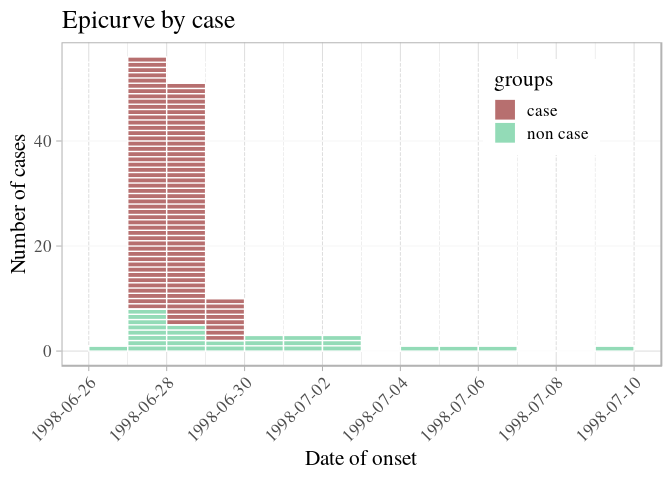
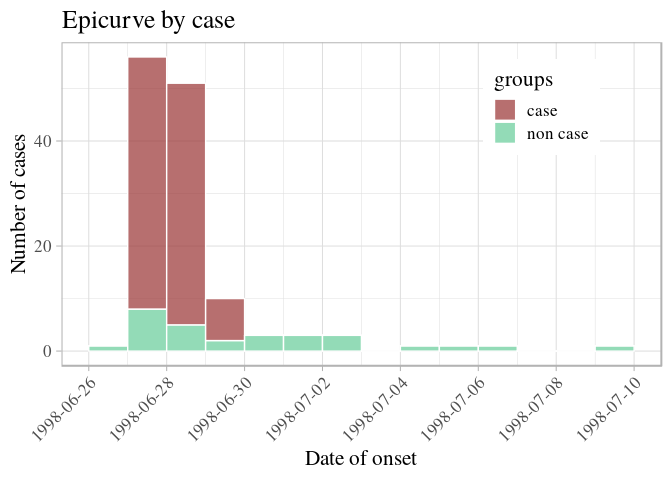
remove `food` data frame
I've replaced the food data frame with stegen subset by a food
vector. This prevents unnecessary distress expressed by participants
that the food data frame and the stegen data frame would not necessarily
be in synch. Apparently in stata, the problem is that the data set gets
re-arranged. This addresses https://github.com/reconhub/learn/issues/42#issuecomment-441060451

Changed region(s): [[0.1875, 0.125, 0.5312, 0.75]]

diff --git a/content/post/practical-stegen.md b/content/post/practical-stegen.md
@@ -886,8 +886,7 @@ for
 more):
 
 ``` r
-plot(i_ill, border = "white", color = c("non case" = "#66cc99", "case" = "#993333")) + 
-  geom_hline(yintercept = 1:55, color = "white") +
+plot(i_ill, border = "white", count_cases = TRUE, color = c("non case" = "#66cc99", "case" = "#993333")) + 
   labs(title = "Epicurve by case", x = "Date of onset", y = "Number of cases") +
   theme_light(base_family = "Times", base_size = 16) +
   theme(legend.position = c(0.8, 0.8)) +
@@ -982,15 +981,14 @@ indicating the columns we want to
 keep.
 
 ``` r
-to_keep <- c('tiramisu', 'wmousse', 'dmousse', 'mousse', 'beer', 'redjelly',
-             'fruit_salad', 'tomato', 'mince', 'salmon', 'horseradish',
-             'chickenwin', 'roastbeef', 'pork') 
-to_keep
+food <- c('tiramisu', 'wmousse', 'dmousse', 'mousse', 'beer', 'redjelly',
+          'fruit_salad', 'tomato', 'mince', 'salmon', 'horseradish',
+          'chickenwin', 'roastbeef', 'pork') 
+food
 ##  [1] "tiramisu"    "wmousse"     "dmousse"     "mousse"      "beer"       
 ##  [6] "redjelly"    "fruit_salad" "tomato"      "mince"       "salmon"     
 ## [11] "horseradish" "chickenwin"  "roastbeef"   "pork"
-food <- stegen[to_keep]
-food
+stegen[food]
 ## # A tibble: 291 x 14
 ##    tiramisu wmousse dmousse mousse  beer redjelly fruit_salad tomato mince
 ##       <dbl>   <dbl>   <dbl>  <dbl> <dbl>    <dbl>       <dbl>  <dbl> <dbl>
@@ -1020,7 +1018,7 @@ calcuate a contingency table is using the `epitable()` function from the
 *epitools* package:
 
 ``` r
-pork_table <- epitable(food$pork, stegen$ill)
+pork_table <- epitable(stegen$pork, stegen$ill)
 pork_table
 ##          Outcome
 ## Predictor non case case
@@ -1568,14 +1566,14 @@ To recap, to get a risk ratio we’ve done the following:
 2.  estimated the risk ratio
 3.  extracted estimate into a data frame
 
-However, we have 14 potential predictors to sort through and we don’t
-want to have to repeat these procedures manually over and over. One
-strategy to help with this is to create our own *function*, which we can
-think of as a miniature recipe for a computer to read. If we take the
-steps above and place them into individual steps we would get:
+However, we have potential predictors to sort through and we don’t want
+to have to repeat these procedures manually over and over. One strategy
+to help with this is to create our own *function*, which we can think of
+as a miniature recipe for a computer to read. If we take the steps above
+and place them into individual steps we would get:
 
 ``` r
-et  <- epitable(food$pork, stegen$ill)
+et  <- epitable(stegen$pork, stegen$ill)
 rr  <- riskratio(et)
 estimate <- rr$measure[2, ]
 res <- data.frame(estimate = estimate["estimate"],
@@ -1591,7 +1589,7 @@ res
 Just like a recipe, a function needs both ingredients and instructions.
 What we have above are instructions, but we still need to say what our
 ingredients are. If we look at the above code, we can see that we need
-to define our predictor (`food$pork`) and outcome (`stegen$ill`);
+to define our predictor (`stegen$pork`) and outcome (`stegen$ill`);
 everything else flows from that. We can then write our function (which
 we will call `single_risk_ratio()`) like
 this:
@@ -1614,7 +1612,7 @@ Now, we can use this `single_risk_ratio()` like any other
 function:
 
 ``` r
-pork_rr <- single_risk_ratio(predictor = food$pork, outcome = stegen$ill)
+pork_rr <- single_risk_ratio(predictor = stegen$pork, outcome = stegen$ill)
 pork_rr
 ##          estimate     lower    upper   p.value
 ## estimate 1.251852 0.9176849 1.707703 0.1708777
@@ -1624,7 +1622,7 @@ If we change the variable, we’ll get a different
 answer:
 
 ``` r
-fruit_rr <- single_risk_ratio(predictor = food$fruit_salad, outcome = stegen$ill)
+fruit_rr <- single_risk_ratio(predictor = stegen$fruit_salad, outcome = stegen$ill)
 fruit_rr
 ##          estimate    lower    upper      p.value
 ## estimate 2.500618 1.886773 3.314171 9.998203e-09
@@ -1644,8 +1642,9 @@ Here we can see that the fruit salad has a higher risk ratio with a
 lower P-value, but we want to compare all of the variables and still,
 copying and pasting all this code would be a nightmare and potentially
 lead to errors. We will see in the next section how we can use R to
-apply the function `single_risk_ratio()` to each column of our `food`
-data frame to give us a table of risk ratios for all the food items.
+apply the function `single_risk_ratio()` to each column of `stegen` that
+we have listed in `food` to give us the risk ratios for all the food
+items.
 
 ### Multiple variables
 
@@ -1658,16 +1657,17 @@ recipe:
 
 We placed this recipe in a function called `single_risk_ratio()` and we
 know we can use it to calcuate the risk ratio for individual variables,
-but we need to be able to calculate it over all the variables in our
-`food` data frame. The solution is to use an R function called
-`lapply()`, which takes each element of a list (or column of a data
-frame) and uses it as the first ingredient (also known as argument) of a
-function. Like `tapply()`, the function can be anything and additional
-arguments are placed behind the function. It will then return the output
-as a list:
+but we need to be able to calculate it over all the variables from
+`stegen` that we have listed in our `food` vector. The solution is to
+use an R function called `lapply()`, which takes each element of a list
+(or column of a data frame) and uses it as the first ingredient (also
+known as argument) of a function. Like `tapply()`, the function can be
+anything and additional arguments are placed behind the function. It
+will then return the output as a
+list:
 
 ``` r
-all_rr <- lapply(food, FUN = single_risk_ratio, outcome = stegen$ill)
+all_rr <- lapply(stegen[food], FUN = single_risk_ratio, outcome = stegen$ill)
 head(all_rr)
 ## $tiramisu
 ##          estimate    lower    upper      p.value
@@ -1775,19 +1775,20 @@ ratios </summary>
 Just like we created the function `single_risk_ratio()` to calculate the
 risk ratio of a single variable, we can create another function that
 will calculate the risk ratio for all variables in a data frame. We can
-do it the same way we did above. First, define the recipe:
+do it the same way we did above. First, define the
+recipe:
 
 ``` r
-all_rr <- lapply(food, FUN = single_risk_ratio, outcome = stegen$ill)
+all_rr <- lapply(stegen[food], FUN = single_risk_ratio, outcome = stegen$ill)
 all_food_df <- bind_rows(all_rr, .id = "predictor")
 all_food_df <- arrange(all_food_df, desc(estimate))
 all_food_df$predictor <- factor(all_food_df$predictor, unique(all_food_df$predictor))
 ```
 
 Now, find the ingredients. The first step is `lapply()` which needs
-`food` and `stegen$ill`, which are a data frame of predictors and a
-vector of outcomes, resepectively, so we will add these as *arguments*
-called `predictors` and `outcome`:
+`stegen[food]` and `stegen$ill`, which are a data frame of predictors
+and a vector of outcomes, resepectively, so we will add these as
+*arguments* called `predictors` and `outcome`:
 
 ``` r
 multi_risk_ratio <- function(predictors, outcome) {
@@ -1802,7 +1803,7 @@ multi_risk_ratio <- function(predictors, outcome) {
 And we can call the function like so:
 
 ``` r
-multi_risk_ratio(predictors = food, outcome = stegen$ill)
+multi_risk_ratio(predictors = stegen[food], outcome = stegen$ill)
 ##      predictor   estimate     lower     upper      p.value
 ## 1     tiramisu 18.3116883 8.8142022 38.042913 1.794084e-41
 ## 2       mousse  4.9689579 3.2994031  7.483336 1.257341e-20
